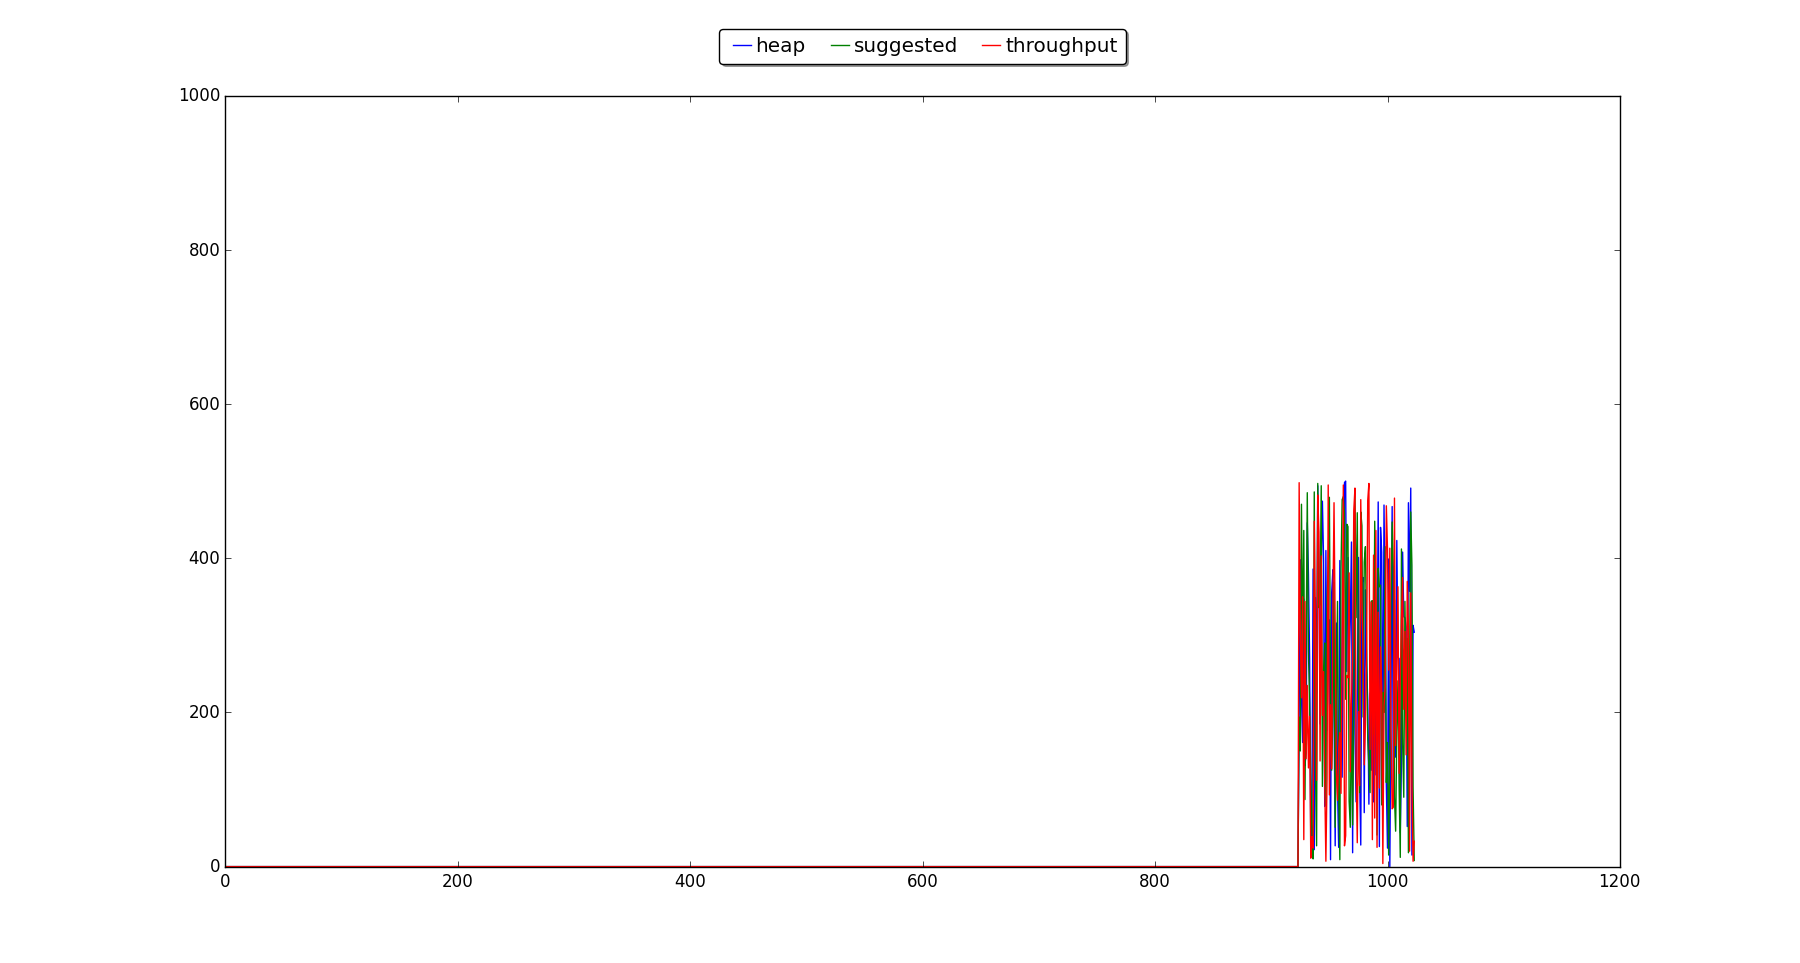
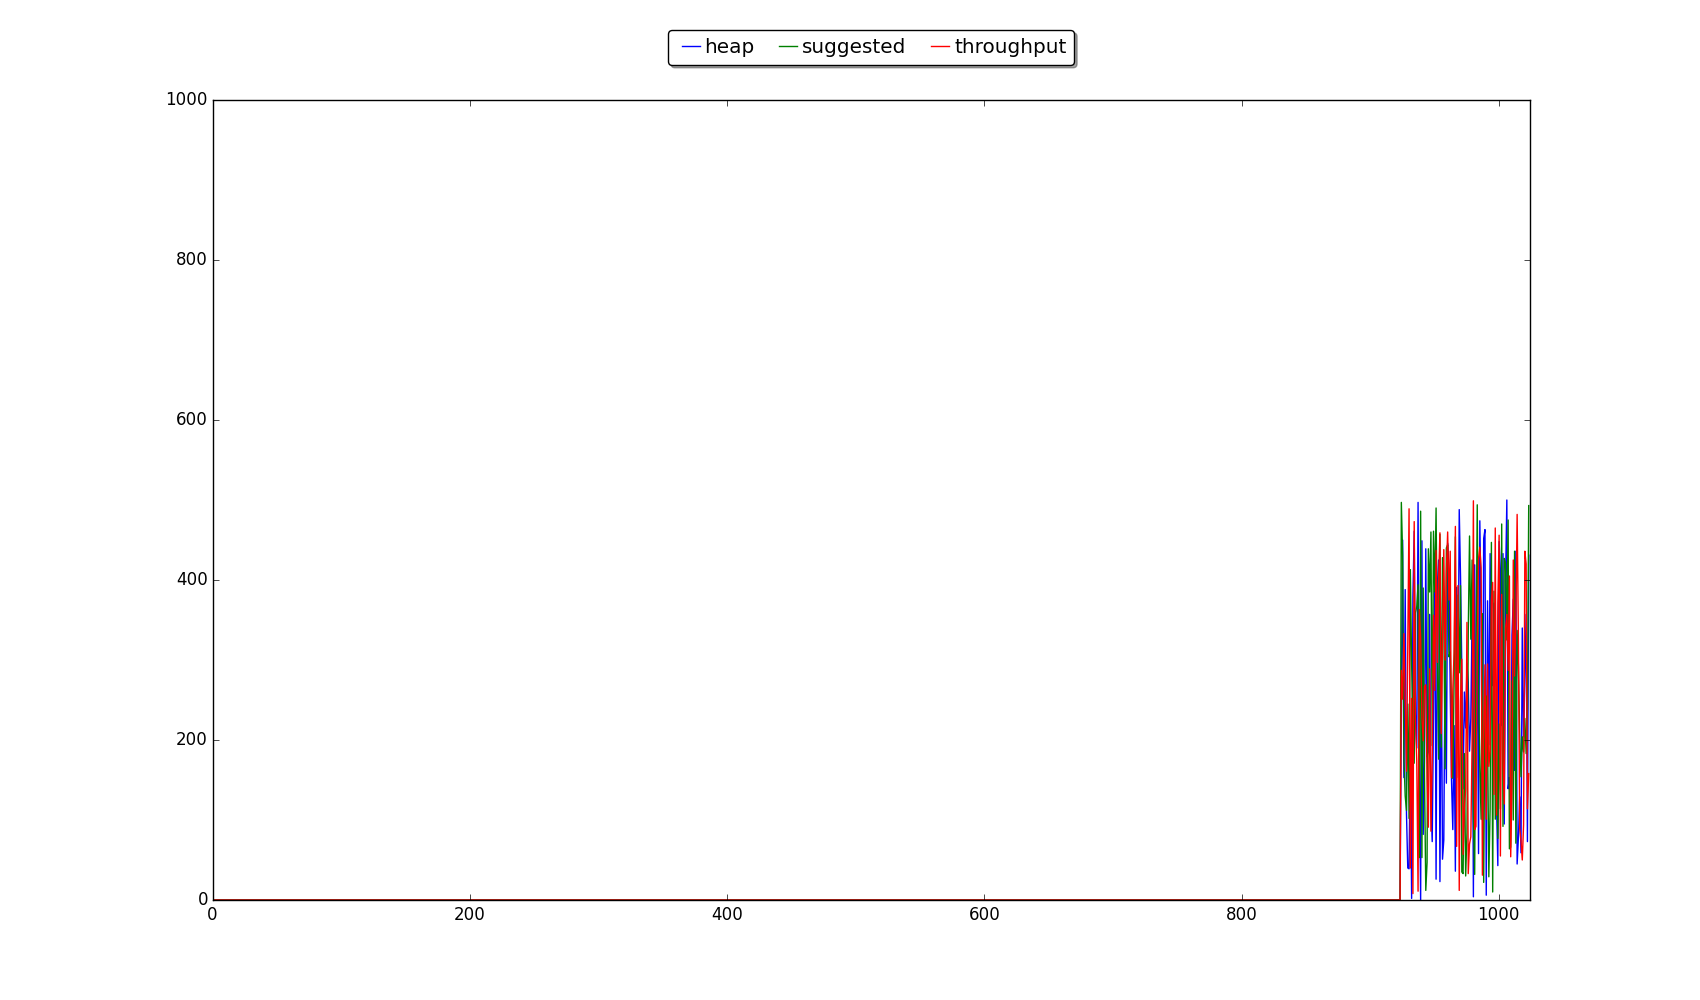
tydied up looks and window size

diff --git a/PythonMonitor/Plotter/plotter.py b/PythonMonitor/Plotter/plotter.py
@@ -22,10 +22,21 @@ class Plotter:
         for i in range(0,width):
             self.defaultY[i] = 0;
 
-        fig = pylab.gcf()
+        xpixels = 1499
+        ypixels = 900
+        # get the size in inches
+        dpi = 85
+        xinch = xpixels / dpi
+        yinch = ypixels / dpi
+
+        #fig = pylab.gcf()
+
+        fig = plt.figure(figsize=(xinch,yinch))
         fig.canvas.set_window_title(title)
         plt.ion()
+        
         pylab.ylim([0,1000])
+        pylab.xlim([0,width])
 
     def plot(self,elements,tlabels):
         index = 0;
